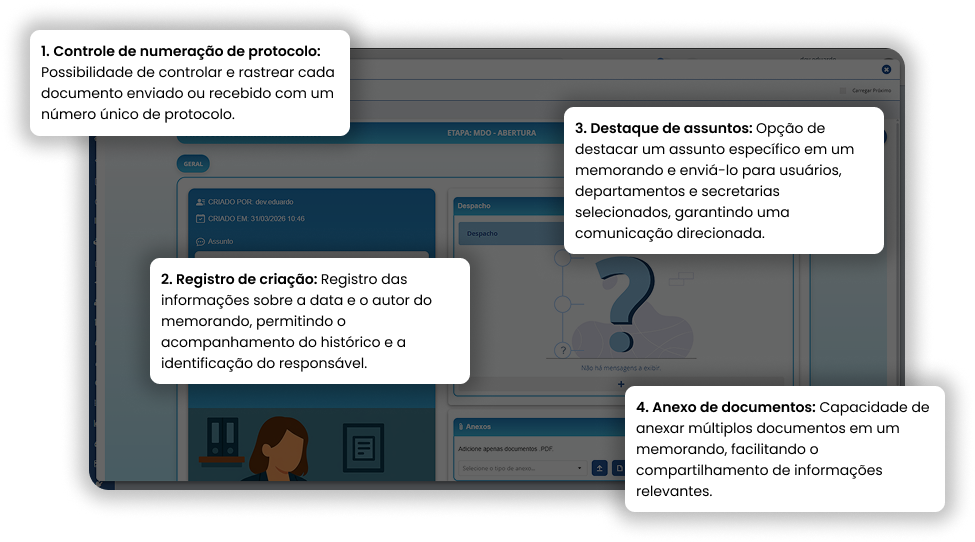
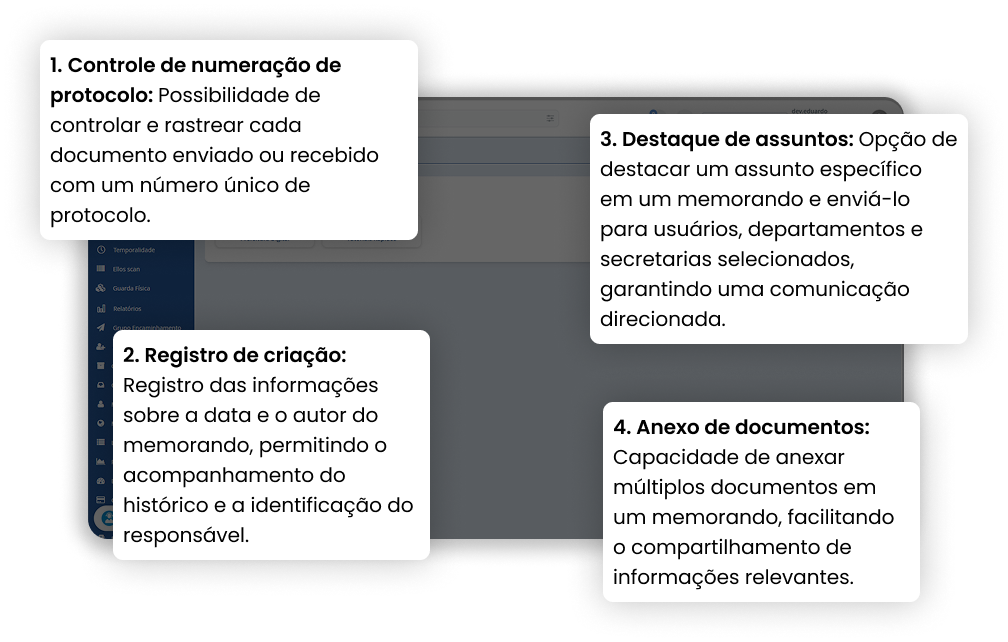
refactor: ajuste da seção sobre o notpaper

diff --git a/components/sections/solucoes/notpaper-section.jsx b/components/sections/solucoes/notpaper-section.jsx
@@ -16,7 +16,7 @@ export default function SolucoesNotpaperSection() {
         description:
           "Centralize a comunicação institucional com envio, registro e acompanhamento de memorandos em um ambiente digital seguro, garantindo rastreabilidade e organização das informações.",
         to: "/",
-        image: "/image/memorando.png",
+        image: "/image/modelo_teste_site.png",
         imageAlt: "Comunicação Interna",
       },
       {
@@ -230,7 +230,7 @@ export default function SolucoesNotpaperSection() {
           </p>
         </header>
 
-        <div className="grid md:grid lg:grid-cols-2 gap-8 items-center">
+        <div className="ajuste-grid grid lg:grid-cols-2 gap-8 items-center">
           <aside ref={ref} className={`${isVisible ? "animate-blur-in-left" : "opacity-0"}`}>
             {" "}
             <h3 className="pb-5 text-center text-lg md:text-2xl font-semibold text-slate-600">Confira todas as nossas funcionalidades.</h3>
@@ -277,7 +277,13 @@ export default function SolucoesNotpaperSection() {
               <p className="text-sm md:text-base text-gray-200 text-center leading-relaxed">{active.description}</p>
             </div>
 
+            <div className="relative">
             <img src={active.image} alt={active.imageAlt} className="w-full h-auto object-cover" />
+            <p className="absolute z-10 top-[-20px] md:-top-4 left-2 text-[7px] md:text-[12px] p-2 max-w-[250px] bg-white shadow-3xl rounded-lg"><strong>1. Controle de numeração de protocolo:</strong> Possibilidade de controlar e rastrear cada documento enviado ou recebido com um número único de protocolo.</p>
+            <p className="absolute z-10 top-[35px] md:top-[30px] right-4 text-[7px] md:text-[12px] p-2 max-w-[250px] bg-white shadow-3xl rounded-lg"><strong>2. Registro de criação:</strong> Registro das informações sobre a data e o autor do memorando, permitindo o acompanhamento do histórico e a identificação do responsável.</p>
+            <p className="absolute z-10 top-[90px] md:top-[150px] left-[30px] md:left-[20px] text-[7px] md:text-[12px] p-2 max-w-[250px] bg-white shadow-3xl rounded-lg"><strong>3. Destaque de assuntos:</strong> Opção de destacar um assunto específico em um memorando e enviá-lo para usuários, departamentos e secretarias selecionados, garantindo uma comunicação direcionada.</p>
+            <p className="absolute z-10 bottom-[3px] md:bottom-[30px] right-[20px] text-[7px] md:text-[12px] p-2 max-w-[250px] bg-white shadow-3xl rounded-lg"><strong>4. Anexo de documentos:</strong> Capacidade de anexar múltiplos documentos em um memorando, facilitando o compartilhamento de informações relevantes.</p>
+             </div>
           </div>
         </div>
       </div>

diff --git a/components/layout/header.jsx b/components/layout/header.jsx
@@ -5,7 +5,7 @@ import { BtnWhatsapp } from "../ui/btn-whatsapp";
 
 export default function SiteHeader() {
   return (
-    <header className="fixed top-0 z-50 w-full bg-white/90 shadow-lg">
+    <header className="fixed inset-x-0 top-0 z-50 bg-white/90 shadow-lg">
       <nav className="container mx-auto flex items-center justify-between px-4 py-4">
         <Link href="/" className="flex items-center" aria-label="Ir para a Home">
           <Image src="/image/Logo_notpaper.png" alt="Logo da notPaper" width={180} height={48} className="h-10 w-auto" priority />
@@ -42,7 +42,7 @@ export default function SiteHeader() {
             </svg>
           </summary>
 
-          <div className="absolute right-0 mt-3 flex w-56 flex-col space-y-1 rounded-lg bg-white px-6 py-4 shadow-lg">
+          <div className="absolute right-0 z-50 mt-3 flex w-56 max-w-[calc(100vw-2rem)] flex-col space-y-1 rounded-lg bg-white px-6 py-4 shadow-lg">
             <Link href="/" className="block border-b py-2 text-gray-700 transition-colors hover:text-[#0043FE]">
               Home
             </Link>

diff --git a/app/globals.css b/app/globals.css
@@ -4,6 +4,14 @@
 
 html {
   scroll-behavior: smooth;
+  width: 100%;
+  overflow-x: clip;
+}
+
+body {
+  width: 100%;
+  max-width: 100%;
+  overflow-x: hidden;
 }
 
 .section-anchor {
@@ -49,7 +57,6 @@ html {
 .animate-zoom-in {
   animation: zoom-in 0.9s ease-out forwards;
 }
-
 
 .carousel-container {
   overflow: hidden;
@@ -101,7 +108,7 @@ html {
   position: relative;
   isolation: isolate;
   --tunnel-fade: clamp(56px, 9vw, 170px);
-  --tunnel-shadow: rgba(0, 32, 115, 0.10);
+  --tunnel-shadow: rgba(0, 32, 115, 0.1);
   -webkit-mask-image: linear-gradient(
     to right,
     transparent 0,
@@ -235,4 +242,11 @@ html {
 
 .animate-blur-in-up {
   animation: blur-in-up 1.2s ease-out forwards;
+}
+
+@media (max-width: 1280px) {
+  .ajuste-grid {
+    display: grid;
+    grid-template-columns: 1fr !important;
+  }
 }

diff --git a/components/sections/comparacao/comparativo-section/comparativo-section.module.scss b/components/sections/comparacao/comparativo-section/comparativo-section.module.scss
@@ -1,6 +1,7 @@
 .comparativo {
   background: #f6f8fc;
   padding: 5rem 0;
+  overflow-x: clip;
 
   &__container {
     margin: 0 auto;
@@ -35,6 +36,7 @@
   border: 1px solid #dbe2f0;
   background: radial-gradient(circle at center, #ffffff 0%, #eef2ff 46%, #e5ebfa 100%);
   padding: 1.1rem;
+  overflow: hidden;
   box-shadow:
     inset 0 1px 0 rgba(255, 255, 255, 0.7),
     0 14px 32px rgba(15, 23, 42, 0.08);
